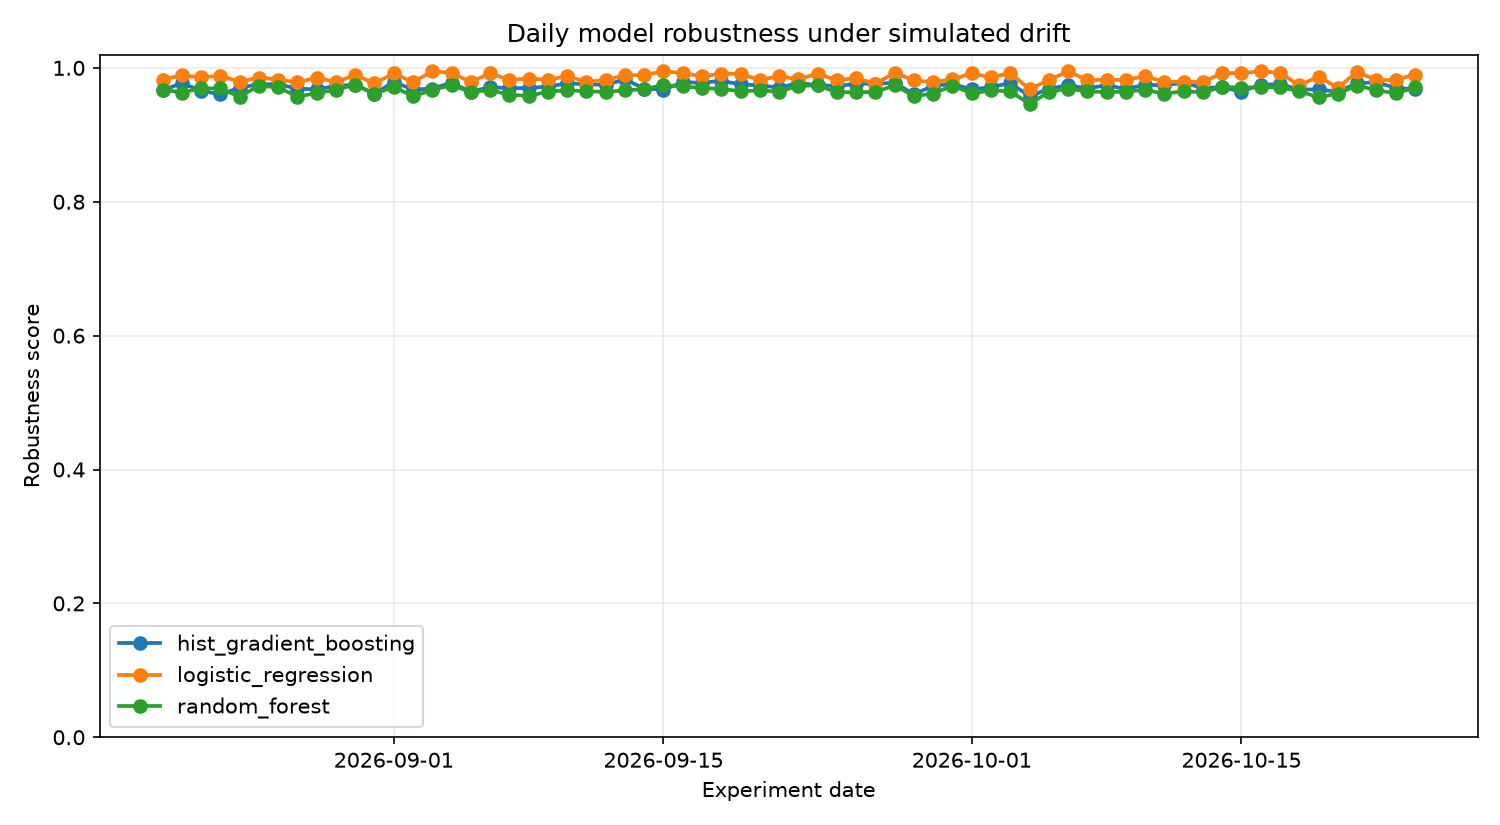
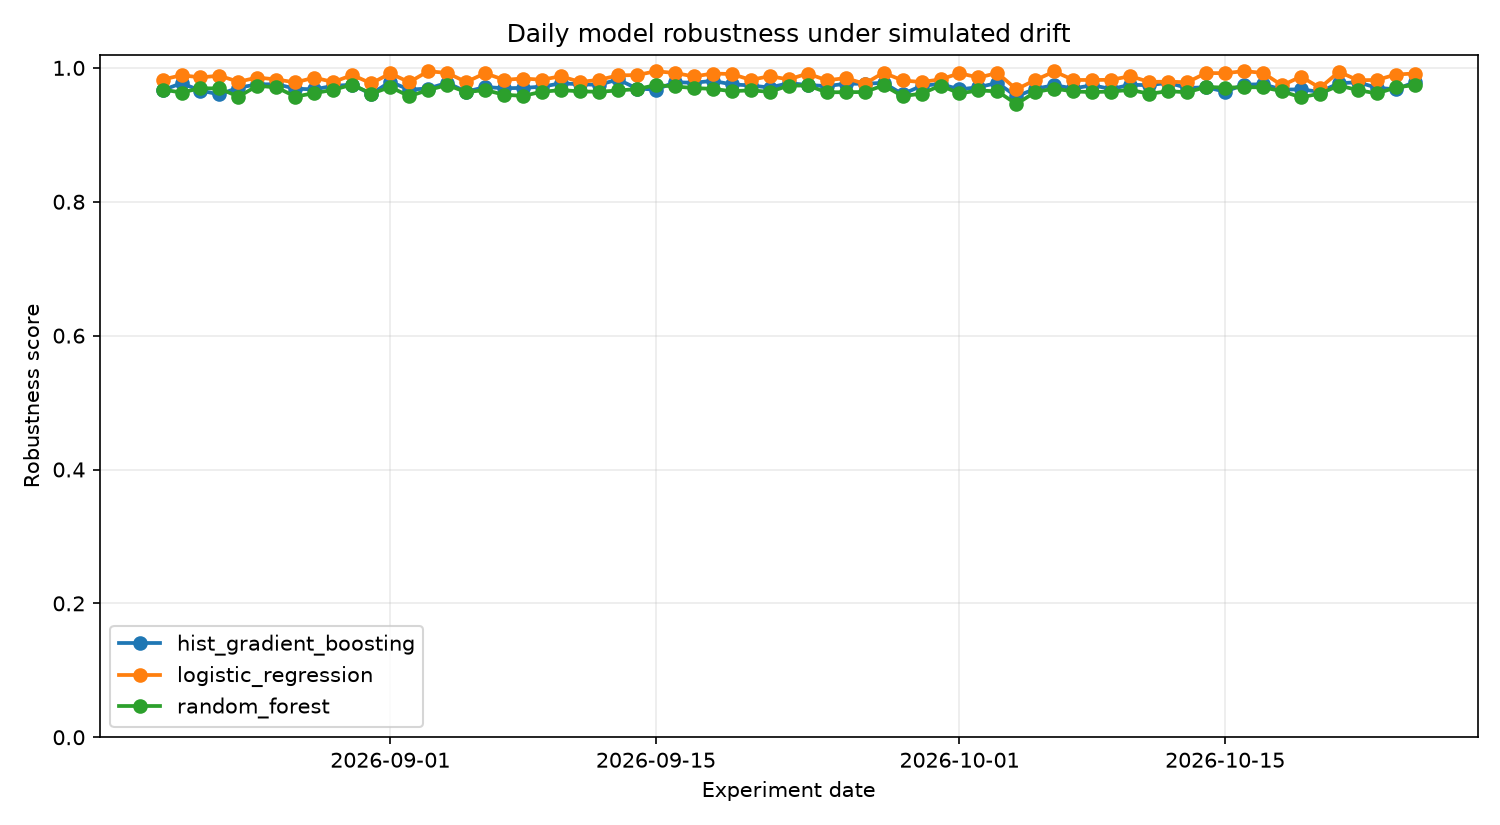
chore(observatory): daily drift benchmark 2026-10-25

diff --git a/reports/latest.md b/reports/latest.md
@@ -1,37 +1,37 @@
 # Latest DriftWatch Report
 
-**Experiment date:** 2026-10-24
+**Experiment date:** 2026-10-25
 
 ## Drift scenario
 
-- Drift strength: `0.510`
-- Scale factor: `0.949`
-- Noise ratio: `0.086`
-- Mask ratio: `0.023`
-- Affected features: mean radius, mean compactness, texture error, smoothness error, symmetry error, worst radius, worst smoothness, worst compactness
+- Drift strength: `0.547`
+- Scale factor: `0.945`
+- Noise ratio: `0.091`
+- Mask ratio: `0.024`
+- Affected features: mean radius, mean texture, smoothness error, concavity error, fractal dimension error, worst texture, worst compactness, worst fractal dimension
 
 ## Model ranking
 
 | Rank | Model | Robustness | ROC-AUC | F1 | Balanced Acc. | Log Loss | Brier |
 |---:|---|---:|---:|---:|---:|---:|---:|
-| 1 | `logistic_regression` | 0.9901 | 0.9985 | 0.9859 | 0.9828 | 0.0651 | 0.0164 |
-| 2 | `random_forest` | 0.9709 | 0.9934 | 0.9636 | 0.9406 | 0.1391 | 0.0373 |
-| 3 | `hist_gradient_boosting` | 0.9680 | 0.9923 | 0.9589 | 0.9360 | 0.1355 | 0.0379 |
+| 1 | `logistic_regression` | 0.9916 | 0.9982 | 0.9907 | 0.9844 | 0.0675 | 0.0181 |
+| 2 | `hist_gradient_boosting` | 0.9787 | 0.9961 | 0.9725 | 0.9563 | 0.0921 | 0.0273 |
+| 3 | `random_forest` | 0.9744 | 0.9936 | 0.9677 | 0.9516 | 0.1413 | 0.0366 |
 
 ## Highest feature drift (PSI)
 
 | Feature | PSI |
 |---|---:|
-| symmetry error | 0.3592 |
-| mean compactness | 0.3275 |
-| worst radius | 0.3210 |
-| texture error | 0.2860 |
-| smoothness error | 0.2392 |
-| worst compactness | 0.2145 |
-| mean radius | 0.1924 |
-| worst smoothness | 0.1797 |
+| concavity error | 0.5059 |
+| fractal dimension error | 0.4798 |
+| worst fractal dimension | 0.3651 |
+| mean texture | 0.3007 |
+| worst compactness | 0.2960 |
+| smoothness error | 0.2870 |
+| worst texture | 0.2858 |
+| mean radius | 0.2507 |
 
-**Mean PSI:** `0.1260`  
-**Max PSI:** `0.3592`
+**Mean PSI:** `0.1539`  
+**Max PSI:** `0.5059`
 
 _Generated automatically by the DriftWatch daily observatory pipeline._
